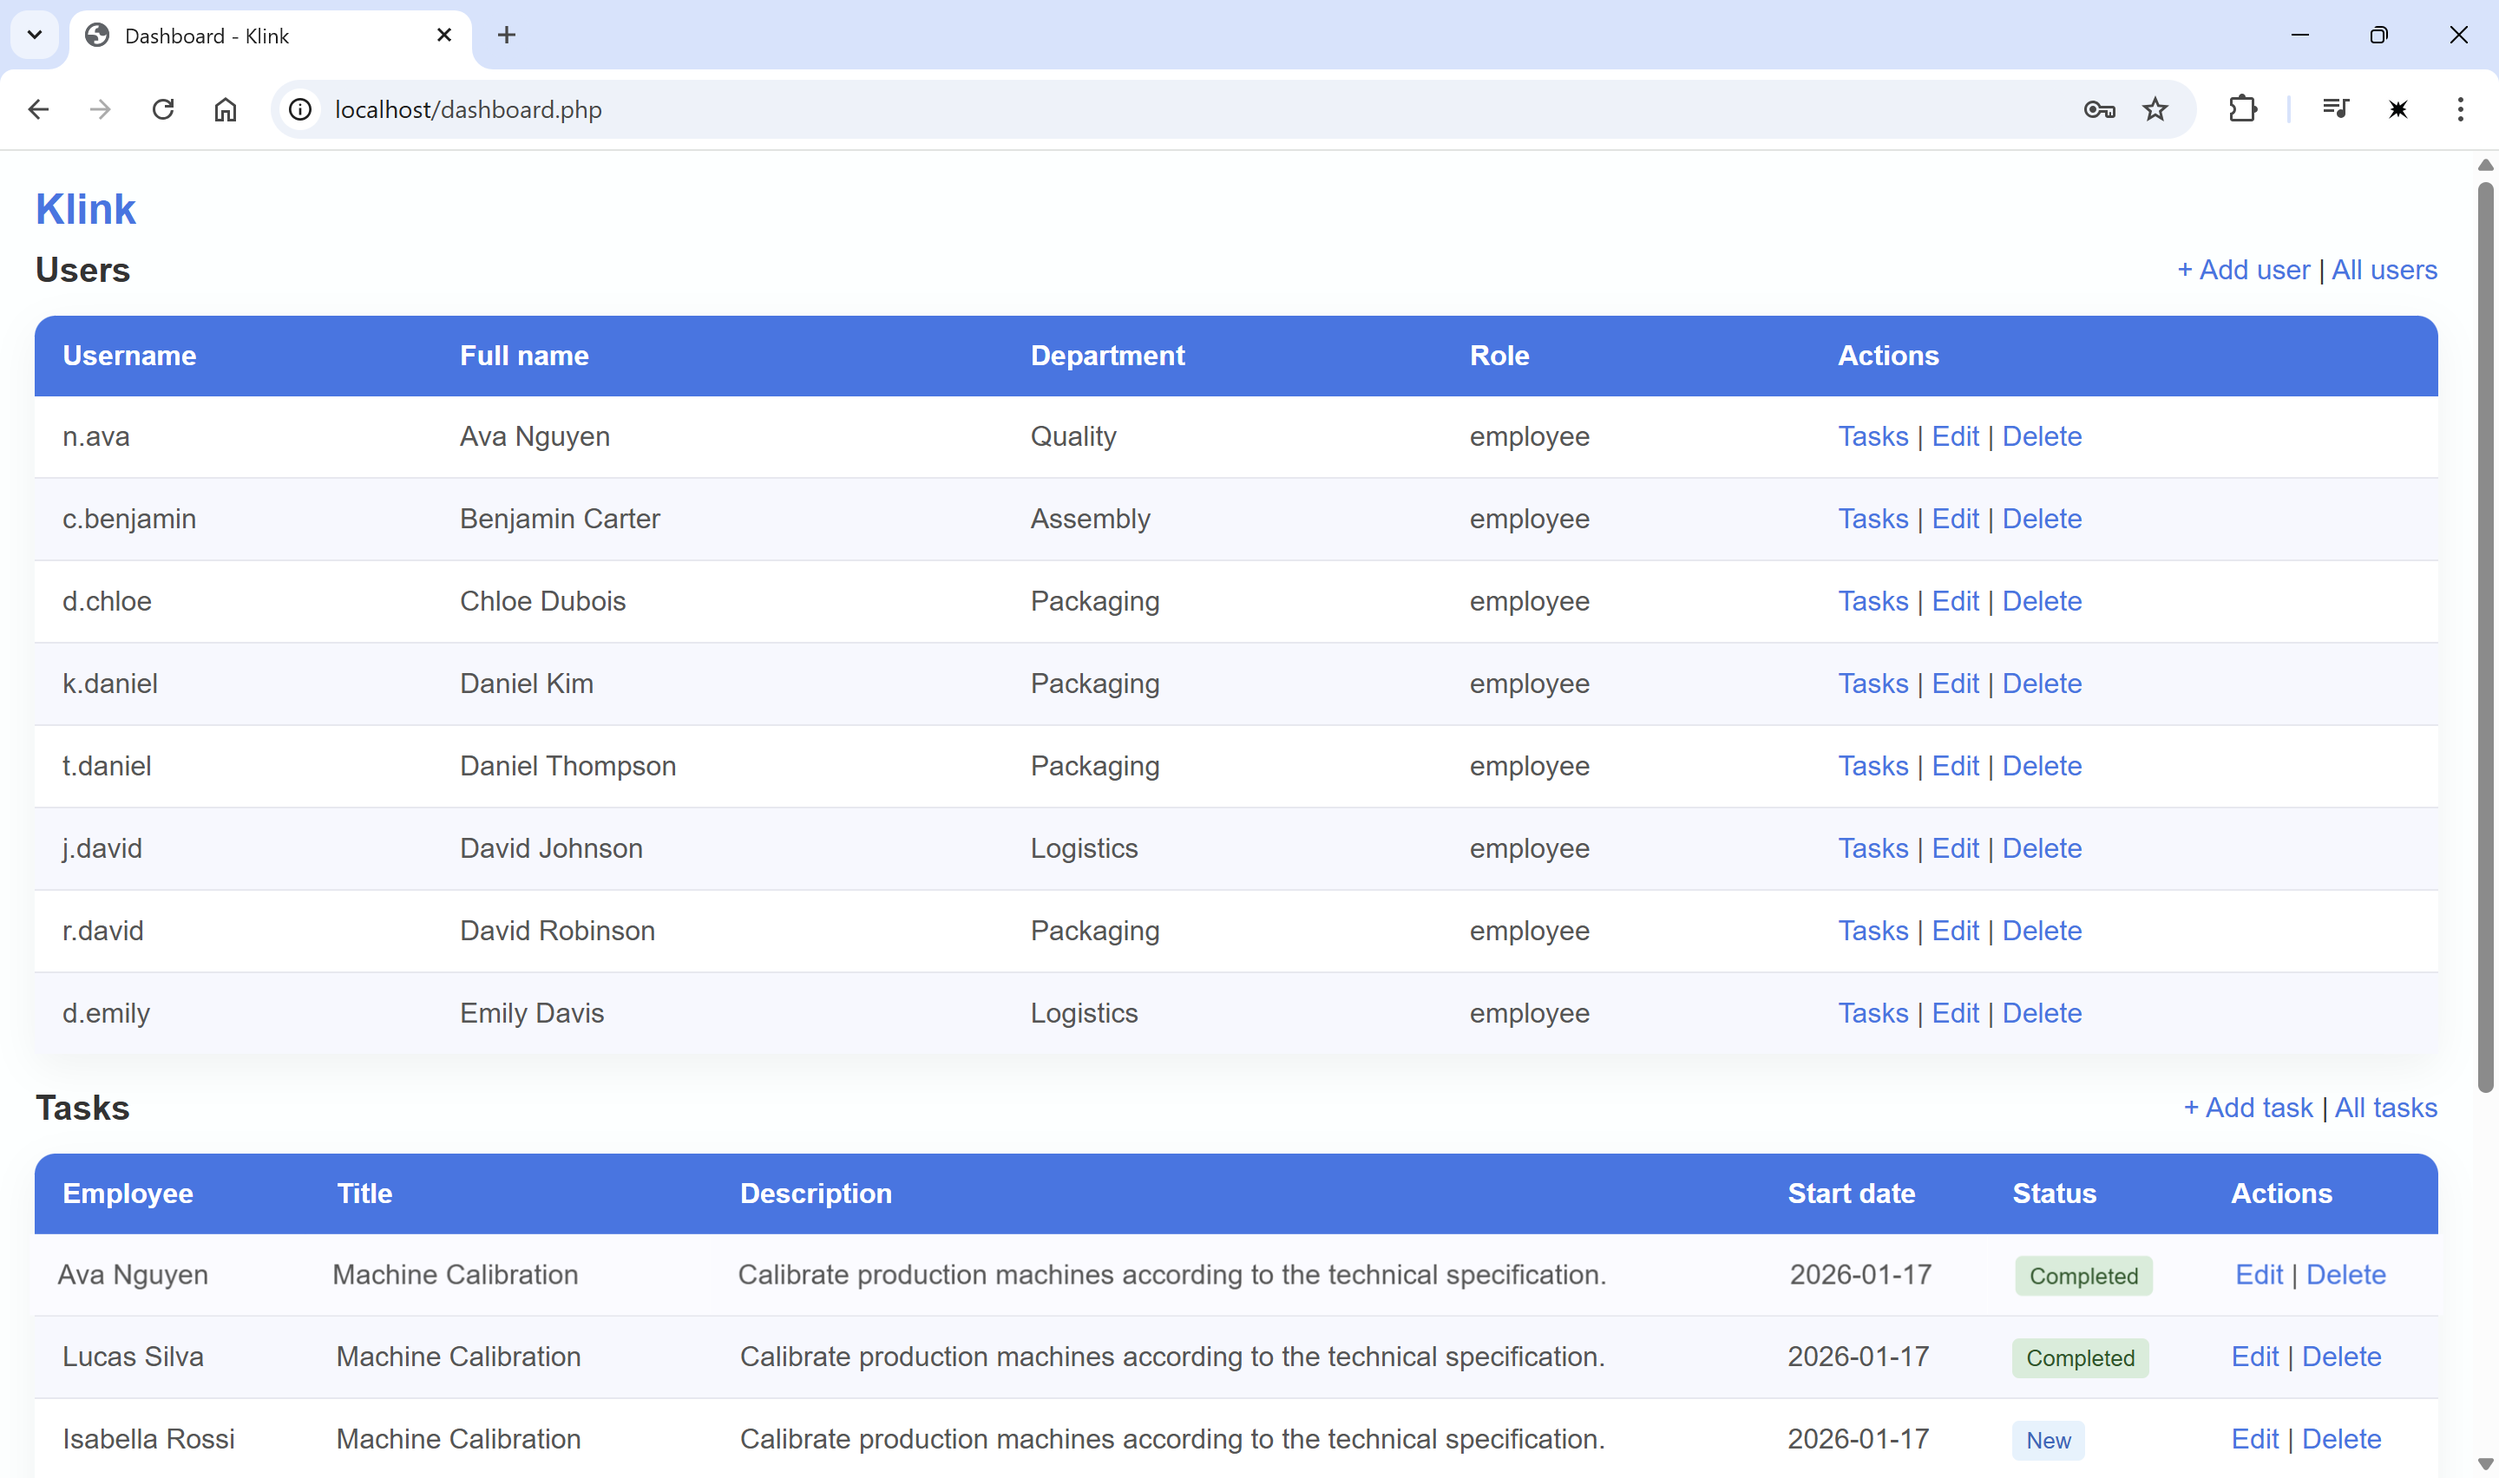
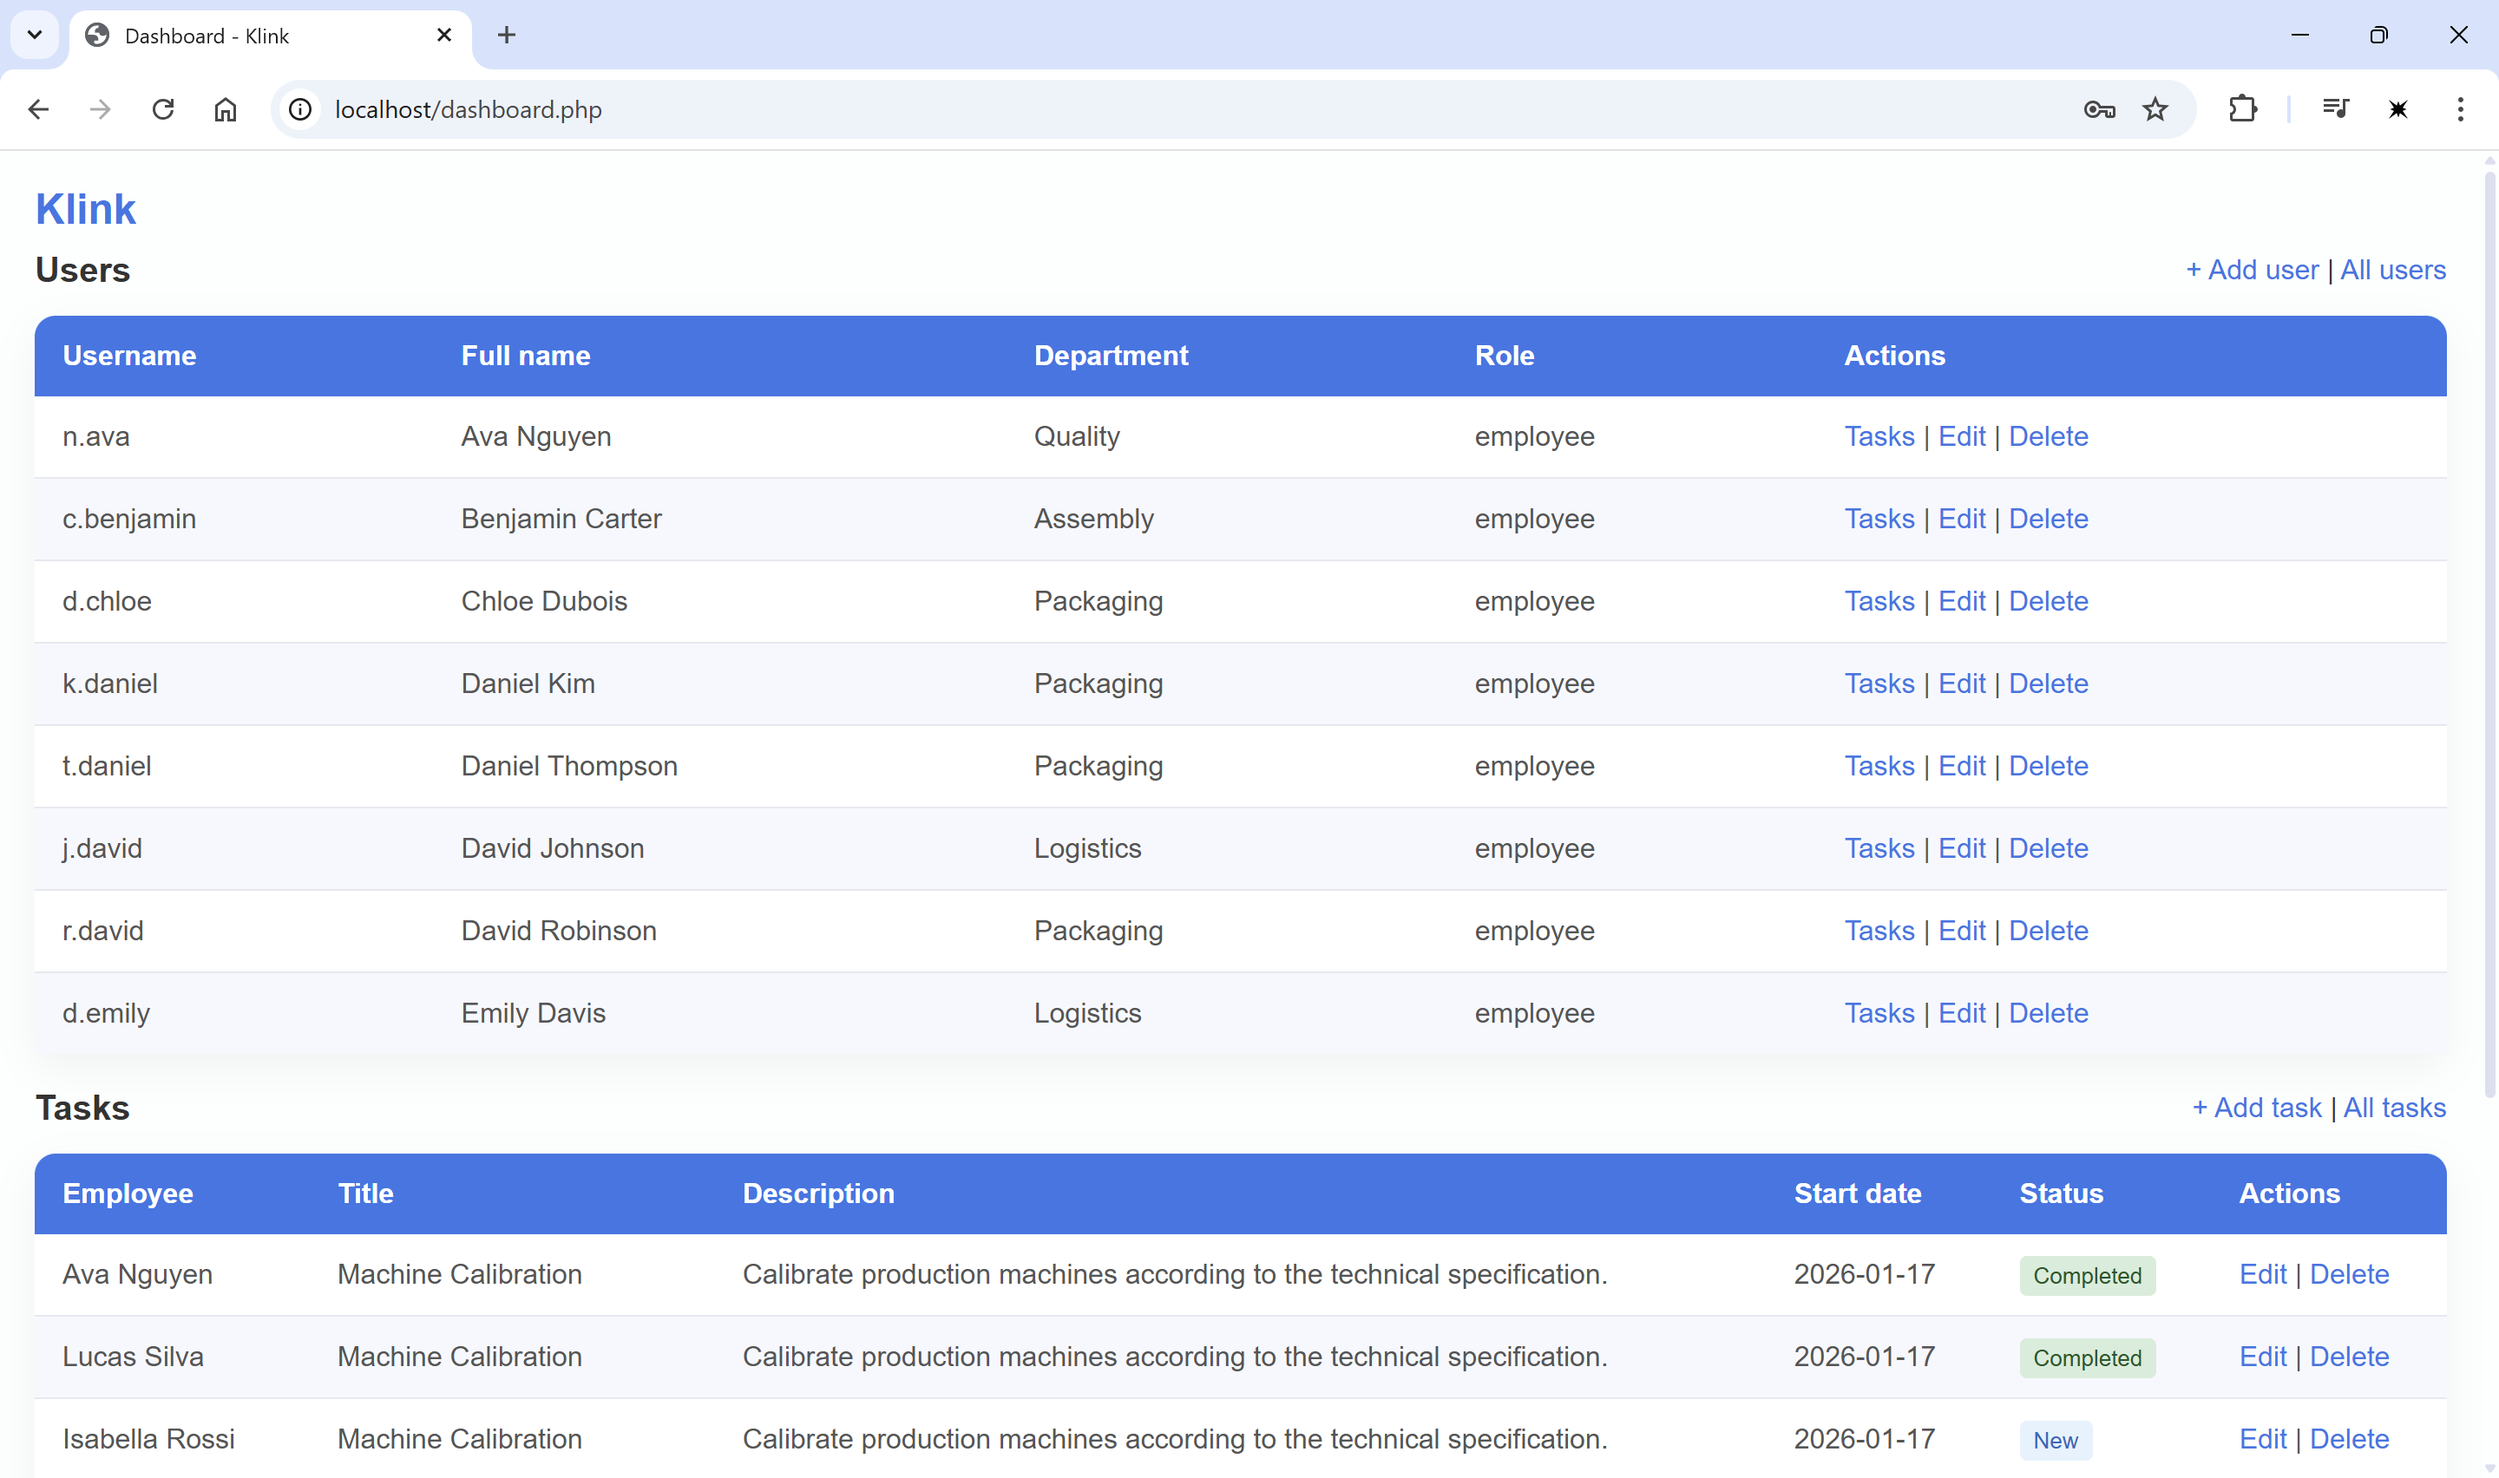
Restructuring the file structure and updating file contents based on this

diff --git a/public/style.css b/public/style.css
@@ -2,6 +2,8 @@
     margin: 0;
     padding: 0;
     box-sizing: border-box;
+    scrollbar-width: thin;
+    scrollbar-color: #dcdff0 transparent;
 }
 
 body {

diff --git a/tests/CsrfTokenTest.php b/tests/CsrfTokenTest.php
@@ -14,7 +14,7 @@
         }
 
         public function testCsrfTokenGeneration() {
-            require_once __DIR__ . '/../helpers/csrf.php';
+            require_once __DIR__ . '/../public/helpers/csrf.php';
             
             $token1 = csrf_token();
             $this->assertNotEmpty($token1);
@@ -22,7 +22,7 @@
         }
 
         public function testCsrfTokenConsistency() {
-            require_once __DIR__ . '/../helpers/csrf.php';
+            require_once __DIR__ . '/../public/helpers/csrf.php';
             
             $token1 = csrf_token();
             $token2 = csrf_token();
@@ -31,7 +31,7 @@
         }
 
         public function testCsrfTokenSessionStorage() {
-            require_once __DIR__ . '/../helpers/csrf.php';
+            require_once __DIR__ . '/../public/helpers/csrf.php';
             
             csrf_token();
             $this->assertNotEmpty($_SESSION['csrf_token']);
@@ -39,14 +39,14 @@
         }
 
         public function testCsrfTokenIsHexadecimal() {
-            require_once __DIR__ . '/../helpers/csrf.php';
+            require_once __DIR__ . '/../public/helpers/csrf.php';
             
             $token = csrf_token();
             $this->assertTrue(ctype_xdigit($token));
         }
 
         public function testCsrfCheckPassesWithValidToken() {
-            require_once __DIR__ . '/../helpers/csrf.php';
+            require_once __DIR__ . '/../public/helpers/csrf.php';
             
             $_SERVER['REQUEST_METHOD'] = 'POST';
             $token = csrf_token();
@@ -63,7 +63,7 @@
 
         /** @runInSeparateProcess */
         public function testCsrfCheckFailsWithInvalidToken() {
-            require_once __DIR__ . '/../helpers/csrf.php';
+            require_once __DIR__ . '/../public/helpers/csrf.php';
             
             $_SERVER['REQUEST_METHOD'] = 'POST';
             csrf_token();
@@ -77,7 +77,7 @@
         /** @runInSeparateProcess */
 
         public function testCsrfCheckFailsWithMissingToken() {
-            require_once __DIR__ . '/../helpers/csrf.php';
+            require_once __DIR__ . '/../public/helpers/csrf.php';
             
             $_SERVER['REQUEST_METHOD'] = 'POST';
             csrf_token();
@@ -89,7 +89,7 @@
         }
 
         public function testCsrfCheckBypassOnGetRequest() {
-            require_once __DIR__ . '/../helpers/csrf.php';
+            require_once __DIR__ . '/../public/helpers/csrf.php';
             
             $_SERVER['REQUEST_METHOD'] = 'GET';
             $_POST = [];
@@ -104,7 +104,7 @@
 
         /** @runInSeparateProcess */
         public function testCsrfCheckWithEmptySessionToken() {
-            require_once __DIR__ . '/../helpers/csrf.php';
+            require_once __DIR__ . '/../public/helpers/csrf.php';
             
             $_SERVER['REQUEST_METHOD'] = 'POST';
             $_POST['csrf_token'] = 'some_token';

diff --git a/tests/SecurityFunctionsTest.php b/tests/SecurityFunctionsTest.php
@@ -5,7 +5,7 @@
     class SecurityFunctionsTest extends TestCase {
         
         public function testEscapingSimpleString() {
-            require_once __DIR__ . '/../helpers/security.php';
+            require_once __DIR__ . '/../public/helpers/security.php';
             
             $input = '<script>alert("xss")</script>';
             $output = e($input);
@@ -15,7 +15,7 @@
         }
 
         public function testEscapingHtmlEntities() {
-            require_once __DIR__ . '/../helpers/security.php';
+            require_once __DIR__ . '/../public/helpers/security.php';
             
             $input = '"double quotes"';
             $output = e($input);
@@ -24,7 +24,7 @@
         }
 
         public function testEscapingSingleQuotes() {
-            require_once __DIR__ . '/../helpers/security.php';
+            require_once __DIR__ . '/../public/helpers/security.php';
             
             $input = "'single quotes'";
             $output = e($input);
@@ -33,7 +33,7 @@
         }
 
         public function testEscapingAmpersand() {
-            require_once __DIR__ . '/../helpers/security.php';
+            require_once __DIR__ . '/../public/helpers/security.php';
             
             $input = 'Jack & Jill';
             $output = e($input);
@@ -42,7 +42,7 @@
         }
 
         public function testEscapingPreservesContent() {
-            require_once __DIR__ . '/../helpers/security.php';
+            require_once __DIR__ . '/../public/helpers/security.php';
             
             $input = 'Hello World';
             $output = e($input);
@@ -51,7 +51,7 @@
         }
 
         public function testEscapingIntegerInput() {
-            require_once __DIR__ . '/../helpers/security.php';
+            require_once __DIR__ . '/../public/helpers/security.php';
             
             $input = 12345;
             $output = e($input);
@@ -60,7 +60,7 @@
         }
 
         public function testEscapingNullInput() {
-            require_once __DIR__ . '/../helpers/security.php';
+            require_once __DIR__ . '/../public/helpers/security.php';
             
             $input = null;
             $output = e($input);
@@ -69,7 +69,7 @@
         }
 
         public function testEscapingComplexHtmlInjection() {
-            require_once __DIR__ . '/../helpers/security.php';
+            require_once __DIR__ . '/../public/helpers/security.php';
             
             $input = '<img src=x onerror="alert(\'xss\')" />';
             $output = e($input);
@@ -79,7 +79,7 @@
         }
 
         public function testEscapingMultilineContent() {
-            require_once __DIR__ . '/../helpers/security.php';
+            require_once __DIR__ . '/../public/helpers/security.php';
             
             $input = "Line 1\nLine 2\n<script>alert('xss')</script>";
             $output = e($input);

diff --git a/tests/DataSanitizationTest.php b/tests/DataSanitizationTest.php
@@ -17,7 +17,7 @@
         }
 
         public function testXSSPayloadEscaping() {
-            require_once __DIR__ . '/../helpers/security.php';
+            require_once __DIR__ . '/../public/helpers/security.php';
             
             $xssPayload = '<img src=x onerror=alert("xss")>';
             $escaped = e($xssPayload);
@@ -27,7 +27,7 @@
         }
 
         public function testEventHandlerEscaping() {
-            require_once __DIR__ . '/../helpers/security.php';
+            require_once __DIR__ . '/../public/helpers/security.php';
             
             $payload = '" onclick="alert(\'xss\')" data="';
             $escaped = e($payload);
@@ -36,7 +36,7 @@
         }
 
         public function testAttributeInjectionPrevention() {
-            require_once __DIR__ . '/../helpers/security.php';
+            require_once __DIR__ . '/../public/helpers/security.php';
             
             $userInput = '"><script>alert(1)</script>';
             $escaped = e($userInput);
@@ -45,7 +45,7 @@
         }
 
         public function testUnicodeEscaping() {
-            require_once __DIR__ . '/../helpers/security.php';
+            require_once __DIR__ . '/../public/helpers/security.php';
             
             $input = 'Test \u0022 Unicode';
             $escaped = e($input);
@@ -54,7 +54,7 @@
         }
 
         public function testEmptyValueSanitization() {
-            require_once __DIR__ . '/../helpers/security.php';
+            require_once __DIR__ . '/../public/helpers/security.php';
             
             $empty = '';
             $escaped = e($empty);

diff --git a/public/config/db.php b/public/config/db.php
@@ -1,0 +1,23 @@
+<?php
+    session_start();
+
+    $env = [];
+    $envPath = dirname(__DIR__, 2) . '/.env';
+
+    if(file_exists($envPath)) {
+        $env = parse_ini_file($envPath);
+    }
+
+    $host = getenv('DB_HOST') ?: ($env['DB_HOST'] ?? null);
+    $user = getenv('DB_USER') ?: ($env['DB_USER'] ?? null);
+    $pass = getenv('DB_PASS') ?: ($env['DB_PASS'] ?? null);
+    $db = getenv('DB_NAME') ?: ($env['DB_NAME'] ?? null);
+
+    $conn = mysqli_connect($host, $user, $pass, $db);
+
+    if(!$conn) {
+        die("Database connection error");
+    }
+
+    mysqli_set_charset($conn, "utf8");
+?>

diff --git a/public/tasks.php b/public/tasks.php
@@ -1,6 +1,6 @@
 <?php
-    require "config/db.php";
-    require "config/auth_check.php";
+    require __DIR__ . "/config/db.php";
+    require __DIR__ . "/config/auth_check.php";
 
     $userID = (int)$_SESSION['user_id'];
     $role = $_SESSION['role'];
@@ -13,7 +13,7 @@
     } elseif ($role === 'admin') {
         $title = 'All tasks';
     }
-    // Fetch employee name if viewing specific employee's tasks
+
     $employeeName = null;
     if ($viewUserID !== $userID) {
         $nameQuery = "select full_name from users where id = $viewUserID";

diff --git a/public/auth/login.php b/public/auth/login.php
@@ -1,7 +1,7 @@
 <?php 
-    require "../config/db.php";
-    require "../helpers/security.php";
-    require "../helpers/csrf.php";
+    require __DIR__ . "/../config/db.php";
+    require __DIR__ . "/../helpers/security.php";
+    require __DIR__ . "/../helpers/csrf.php";
 
     csrf_check();
 

diff --git a/public/index.php b/public/index.php
@@ -1,9 +1,9 @@
 <?php
     session_start();
     if(!isset($_SESSION['user_id'])) {
-        header("Location: auth/login.php");
+        header("Location: /auth/login.php");
         exit;
     }
-    header("Location: dashboard.php");
+    header("Location: /dashboard.php");
     exit;
 ?>

diff --git a/public/tasks/delete.php b/public/tasks/delete.php
@@ -1,6 +1,6 @@
 <?php 
-    require "../config/db.php";
-    require "../config/auth_check.php";
+    require __DIR__ . "/../config/db.php";
+    require __DIR__ . "/../config/auth_check.php";
 
     if ($_SERVER['REQUEST_METHOD'] !== 'POST') {
         die('Invalid request method');

diff --git a/public/users/delete.php b/public/users/delete.php
@@ -1,6 +1,6 @@
 <?php 
-    require "../config/db.php";
-    require "../config/auth_check.php";
+    require __DIR__ . "/../config/db.php";
+    require __DIR__ . "/../config/auth_check.php";
 
     if ($_SESSION['role'] !== 'admin') {
         header('Location: ../dashboard.php');

diff --git a/public/users/add.php b/public/users/add.php
@@ -1,6 +1,6 @@
 <?php
-    require "../config/db.php";
-    require "../config/auth_check.php";
+    require __DIR__ . "/../config/db.php";
+    require __DIR__ . "/../config/auth_check.php";
 
     if ($_SESSION['role'] !== 'admin') {
         header('Location: ../dashboard.php');
